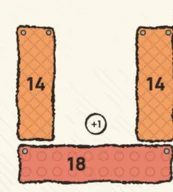
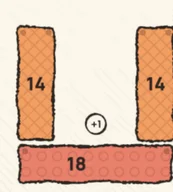
Boop! v1.1: firmer pinned blocks, quieter nails, nails on jelly and grey
- Pinned blocks are twice as heavy (density 3), so a ball nudges them
  about half as far: still a bump that springs back. Resting blocks keep
  the lighter density and move freely. Knock-loose thresholds scaled to
  match, so nails still pop now and then (0-5 per 60 shots, as before).
- Nails are small dots in a darker shade of the block's own colour, no
  ink outline: visible, not loud.
- Jelly and grey blocks never move, so they get nails too; only resting
  blocks have none.
- How to play pictures regenerated. Build 1.1.1.

Claude-Session: https://claude.ai/code/session_014WC2hfsiMz4KFpkf7LrWiz

diff --git a/experiments/boop/game.js b/experiments/boop/game.js
@@ -13,7 +13,7 @@ import './buddy.js';               // the mascot's blinks and glances
 
 // Must match data-build on the page. If they differ, the browser has mixed a cached
 // page with newer scripts (or the reverse): reload once to get a matching set.
-const BUILD = '1.1.0';
+const BUILD = '1.1.1';
 if (document.documentElement.dataset.build !== BUILD) {
     let tried = false;
     try { tried = sessionStorage.getItem('boop-reload') === BUILD; sessionStorage.setItem('boop-reload', BUILD); } catch { /* storage blocked */ }
@@ -158,15 +158,16 @@ function buildBlockView(b) {
     label.renderOrder = 2;
     label.visible = !b.neutral;
     group.add(label);
-    // Pinned blocks are nailed in place: two nail heads near the top corners. Resting
-    // blocks have none, so you can tell at a glance what can tumble.
+    // Everything fixed in place (pinned, jelly, grey) is nailed: two small nail heads near
+    // the top corners, a darker shade of the block's own colour so they don't shout.
+    // Resting blocks have none, so you can tell at a glance what can tumble.
     let nails = null;
-    if (!b.loose && !b.neutral && !b.jello) {
+    if (!b.loose) {
         const top = Math.max(...b.cells.map(([, y]) => y));
         const row = b.cells.filter(([, y]) => y === top).map(([x]) => x);
         const inset = 0.17;           // tucked into the corners, clear of the number
         nails = [[Math.min(...row) - 0.5 + inset, top + 0.5 - inset], [Math.max(...row) + 0.5 - inset, top + 0.5 - inset]].map(([x, y], i) => {
-            const m = makeSketch({ kind: SHAPE.CIRCLE, size: [0.068], edge: 0.03, wob: 0.25, fill: NAIL, seed: b.id * 3 + i, margin: 0.05 });
+            const m = makeSketch({ kind: SHAPE.CIRCLE, size: [0.062], edge: 0, wob: 0.2, fill: 0x000000, seed: b.id * 3 + i, margin: 0.04 });
             m.userData.at = [x, y];
             m.renderOrder = 2;
             group.add(m);
@@ -183,7 +184,7 @@ function buildBlockView(b) {
     return v;
 }
 
-const NAIL = 0xb7b0a6;          // nail heads: a steel grey that reads on every block colour
+const NAIL_SHADE = 0.6;         // nail heads: the block's colour, this much darker
 
 function updateBlockView(v, b, frameDt) {
     const u = v.mesh.material.uniforms;
@@ -192,11 +193,14 @@ function updateBlockView(v, b, frameDt) {
             // Knocked loose: the nails pop out, and from here on it can tumble.
             v.group.updateMatrixWorld();
             const pts = v.nails.map((n) => { const w = n.getWorldPosition(new THREE.Vector3()); return [w.x, w.y]; });
-            crumbs.spray(pts, [NAIL, theme.edge]);
+            crumbs.spray(pts, [u.uFill.value.clone().multiplyScalar(NAIL_SHADE), theme.edge]);
             for (const n of v.nails) { v.group.remove(n); forgetSketch(n); }
             v.nails = null;
         } else {
-            for (const n of v.nails) n.position.set(n.userData.at[0] * b.scale, n.userData.at[1] * b.scale, 0.15);
+            for (const n of v.nails) {
+                n.position.set(n.userData.at[0] * b.scale, n.userData.at[1] * b.scale, 0.15);
+                n.material.uniforms.uFill.value.copy(u.uFill.value).multiplyScalar(NAIL_SHADE);
+            }
         }
     }
     if (v.hp !== b.hp && !b.neutral) {

diff --git a/experiments/boop/index.html b/experiments/boop/index.html
@@ -1,5 +1,5 @@
 <!DOCTYPE html>
-<html lang="en" data-build="1.1.0">
+<html lang="en" data-build="1.1.1">
 <head>
     <meta charset="UTF-8">
     <meta name="viewport" content="width=device-width, initial-scale=1.0, maximum-scale=1.0, user-scalable=no, viewport-fit=cover">
@@ -585,29 +585,29 @@
             "imports": {
                 "three": "https://unpkg.com/three@0.160.0/build/three.module.js",
                 "rapier": "https://cdn.jsdelivr.net/npm/@dimforge/rapier2d-compat@0.19.3/rapier.mjs",
-                "./sim.js": "./sim.js?v=1.1.0",
-                "./zones.js": "./zones.js?v=1.1.0",
-                "./blockshader.js": "./blockshader.js?v=1.1.0",
-                "./sketch.js": "./sketch.js?v=1.1.0",
-                "./balls.js": "./balls.js?v=1.1.0",
-                "./labels.js": "./labels.js?v=1.1.0",
-                "./theme.js": "./theme.js?v=1.1.0",
-                "./crumbs.js": "./crumbs.js?v=1.1.0",
-                "./buddy.js": "./buddy.js?v=1.1.0"
+                "./sim.js": "./sim.js?v=1.1.1",
+                "./zones.js": "./zones.js?v=1.1.1",
+                "./blockshader.js": "./blockshader.js?v=1.1.1",
+                "./sketch.js": "./sketch.js?v=1.1.1",
+                "./balls.js": "./balls.js?v=1.1.1",
+                "./labels.js": "./labels.js?v=1.1.1",
+                "./theme.js": "./theme.js?v=1.1.1",
+                "./crumbs.js": "./crumbs.js?v=1.1.1",
+                "./buddy.js": "./buddy.js?v=1.1.1"
             }
         }
     </script>
     <!-- Fetch every module at once instead of one after another. -->
-    <link rel="modulepreload" href="./game.js?v=1.1.0">
-    <link rel="modulepreload" href="./sim.js?v=1.1.0">
-    <link rel="modulepreload" href="./zones.js?v=1.1.0">
-    <link rel="modulepreload" href="./blockshader.js?v=1.1.0">
-    <link rel="modulepreload" href="./sketch.js?v=1.1.0">
-    <link rel="modulepreload" href="./balls.js?v=1.1.0">
-    <link rel="modulepreload" href="./labels.js?v=1.1.0">
-    <link rel="modulepreload" href="./theme.js?v=1.1.0">
-    <link rel="modulepreload" href="./buddy.js?v=1.1.0">
-    <link rel="modulepreload" href="./crumbs.js?v=1.1.0">
-    <script type="module" src="./game.js?v=1.1.0"></script>
+    <link rel="modulepreload" href="./game.js?v=1.1.1">
+    <link rel="modulepreload" href="./sim.js?v=1.1.1">
+    <link rel="modulepreload" href="./zones.js?v=1.1.1">
+    <link rel="modulepreload" href="./blockshader.js?v=1.1.1">
+    <link rel="modulepreload" href="./sketch.js?v=1.1.1">
+    <link rel="modulepreload" href="./balls.js?v=1.1.1">
+    <link rel="modulepreload" href="./labels.js?v=1.1.1">
+    <link rel="modulepreload" href="./theme.js?v=1.1.1">
+    <link rel="modulepreload" href="./buddy.js?v=1.1.1">
+    <link rel="modulepreload" href="./crumbs.js?v=1.1.1">
+    <script type="module" src="./game.js?v=1.1.1"></script>
 </body>
 </html>

diff --git a/experiments/boop/sim.js b/experiments/boop/sim.js
@@ -74,6 +74,9 @@ const GRACE_RANGE = 5;              // ...unless it's heading at a block within 
 const GRACE_MAX = 180;              // grace lasts at most 1.5s before the ball fades anyway
 const TURN_CAP = 120 * 120;         // safety net only; every hit wears a block down, so turns end long before this
 const BLOCK_DENSITY = 1.5;
+// Pinned (nailed) blocks are heavier, so a ball nudges them less: a firm bump that
+// springs back. Resting blocks keep the lighter density and move freely.
+const PINNED_DENSITY = 3;
 const ZONE_TOP_ROW = 4;
 const ZONE_ROWS = 10;               // rows 4–13; rows 14–15 stay open so balls can leave
 const PRESETTLE_STEPS = 720;        // a new zone is run until still before you see it
@@ -88,8 +91,10 @@ const MUSH_FALL_MAX = 300;          // a fallen mushroom fades out after at most
 // A pinned block breaks loose when it's knocked hard (off its spot AND moving fast),
 // or when it's pushed very far (a worn block that can't hold its load any more).
 // A steady sag under the weight of a resting block doesn't count.
-const SNAP_DIST = 0.22, SNAP_SPEED = 1.2, GIVE_WAY_DIST = 0.45;
-const SNAP_ANGLE = 0.35, SNAP_SPIN = 1.5, GIVE_WAY_ANGLE = 0.6;
+// (Scaled to the heavier pinned blocks, which move about half as far, so a hard enough
+// knock still pops the nails now and then.)
+const SNAP_DIST = 0.15, SNAP_SPEED = 0.8, GIVE_WAY_DIST = 0.3;
+const SNAP_ANGLE = 0.24, SNAP_SPIN = 1.0, GIVE_WAY_ANGLE = 0.42;
 
 // Jello: balls pass through, slowed hard while inside.
 const JELLO_DRAG = 0.94;            // velocity kept per step inside jello
@@ -237,7 +242,7 @@ export class Sim {
                     .setCollisionGroups(groups(G.LOOSE, G.BALL | G.BLOCK | G.LOOSE | G.WALL | G.PROP))
                     .setActiveEvents(R.ActiveEvents.COLLISION_EVENTS);
             } else {
-                d = d.setDensity(BLOCK_DENSITY).setRestitution(0.9).setFriction(0.6)
+                d = d.setDensity(PINNED_DENSITY).setRestitution(0.9).setFriction(0.6)
                     .setCollisionGroups(groups(G.BLOCK, G.BALL | G.LOOSE));
             }
             const c = world.createCollider(d, body);
